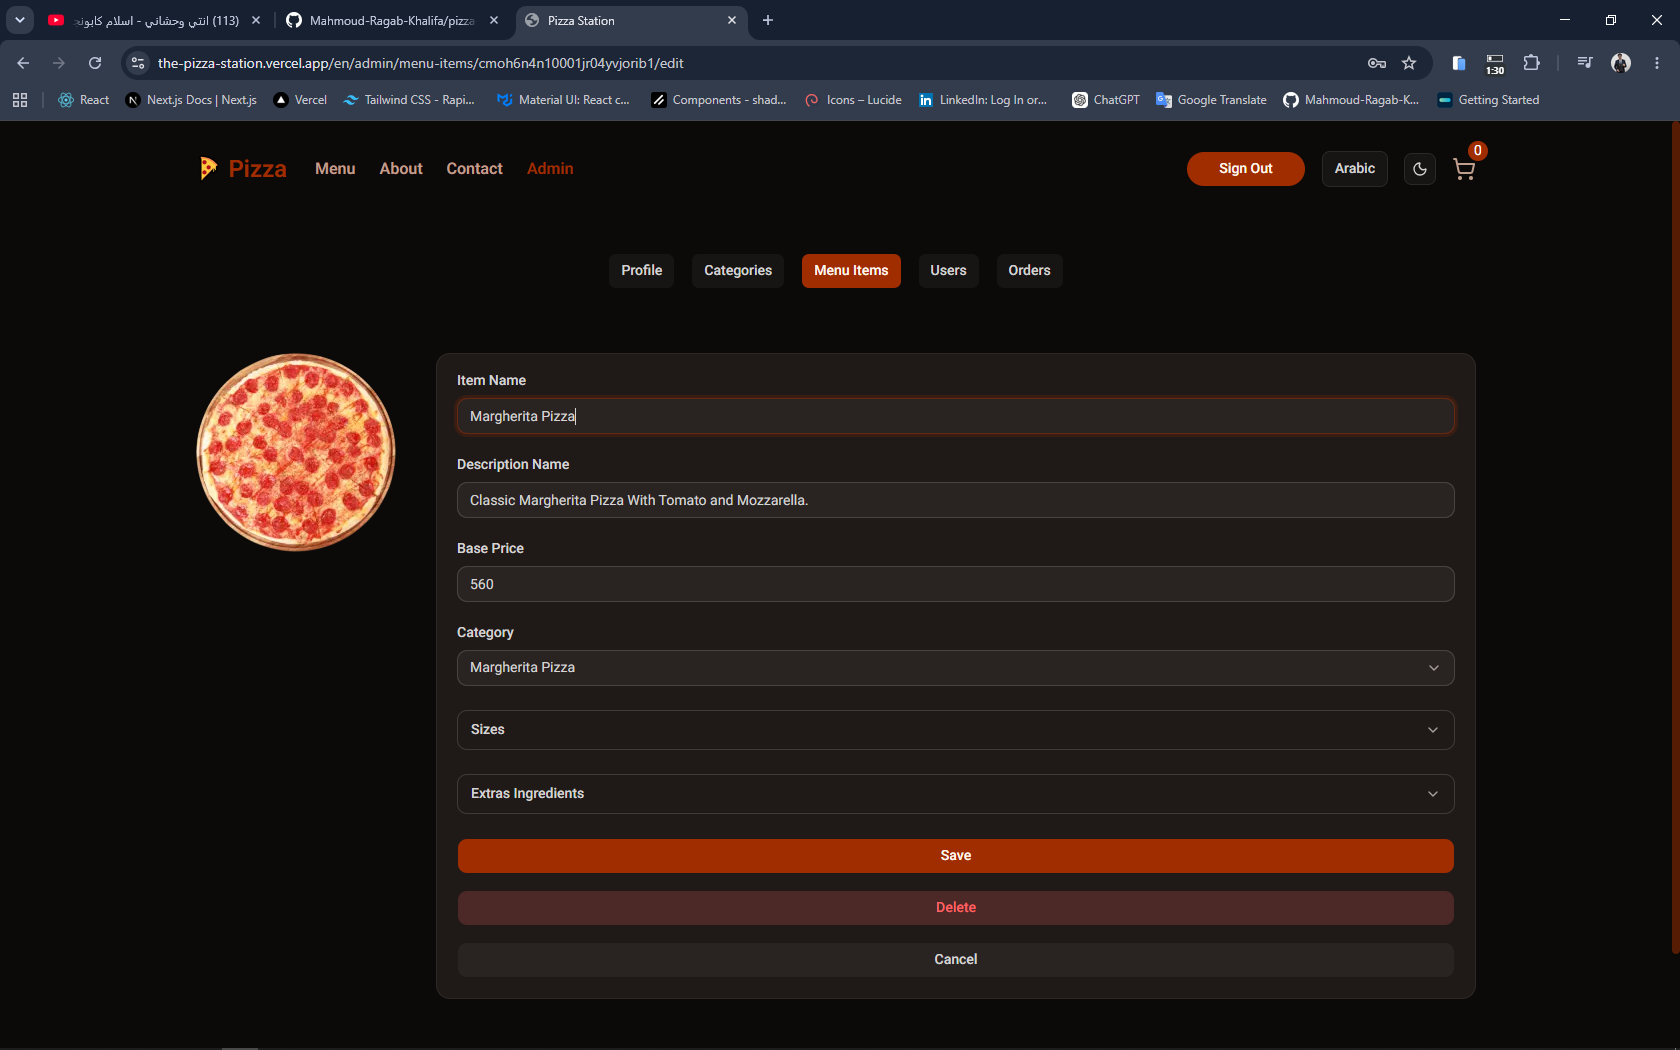
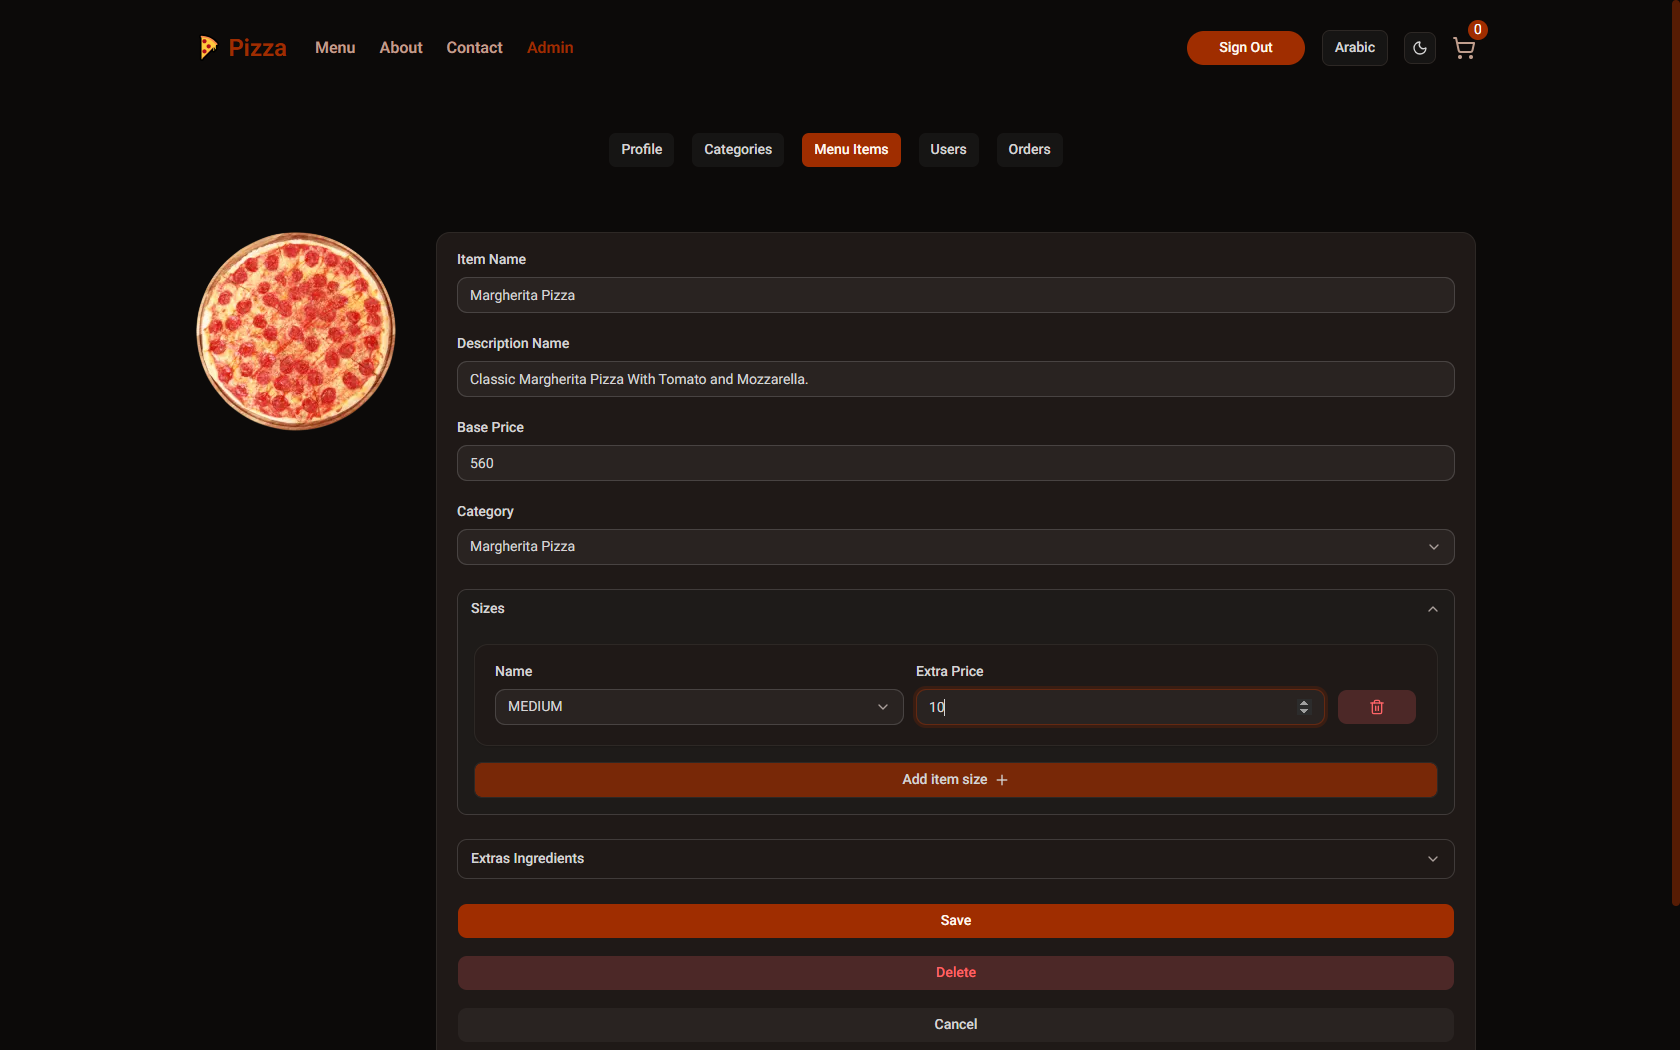
feat: finalize projects section

diff --git a/src/app/_components/Projects.tsx b/src/app/_components/Projects.tsx
@@ -1,0 +1,110 @@
+import { projects } from "@/constants/projects";
+import { ArrowUpRight } from "lucide-react";
+import Image from "next/image";
+import { GitHubIcon } from "../components/SocilaMediaIcons";
+
+const Projects = () => {
+  return (
+    <section className="section-gap relative overflow-hidden" id="projects">
+      {/* Bg glows */}
+      <div className="absolute top-1/4 right-0 size-96 bg-primary/5 rounded-full blur-3xl" />
+      <div className="absolute bottom-1/4 left-0 size-64 bg-primary/5 rounded-full blur-3xl" />
+
+      <div className="container">
+        {/* Section Header */}
+        <div className="text-center mx-auto max-w-3xl mb-16">
+          <span className="text-secondary-foreground text-sm font-medium tracking-wider uppercase animate-fade-in">
+            Featured Work
+          </span>
+          <h2 className="text-4xl md:text-5xl font-bold mt-4 mb-6 animate-fade-in animation-delay-100 text-secondary-foreground">
+            Projects that
+            <span className="font-serif italic font-normal text-white">
+              {" "}
+              make an impact.
+            </span>
+          </h2>
+          <p className="text-muted-foreground animate-fade-in animation-delay-200">
+            A selection of my recent work, from complex web applications to
+            innovative tools that solve real-world problems.
+          </p>
+        </div>
+
+        {/* Projects Grid */}
+        <div className="grid grid-cols-1 md:grid-cols-2 xl:grid-cols-3 gap-8">
+          {projects.map((project, idx) => (
+            <div
+              key={idx}
+              className="group glass rounded-2xl overflow-hidden animate-fade-in md:row-span-1"
+              style={{ animationDelay: `${(idx + 1) * 100}ms` }}
+            >
+              {/* Image */}
+              <div className="relative overflow-hidden aspect-video">
+                <Image
+                  src={project.image}
+                  alt={project.title}
+                  width={1680}
+                  height={1050}
+                  className="object-cover object-center transition-transform duration-700 md:group-hover:scale-110"
+                />
+                <div
+                  className="absolute inset-0 
+                bg-linear-to-t from-card via-card/50
+                 to-transparent opacity-60"
+                />
+                {/* Overlay Links */}
+                <div className="absolute flex items-center gap-4 md:opacity-0 group-hover:opacity-100 transition-all md:-bottom-full left-1/2 top-1/2 md:top-auto -translate-x-1/2 group-hover:top-1/2 -translate-y-1/2 md:translate-y-0 md:group-hover:-translate-y-1/2 duration-500">
+                  <a
+                    href={project.link}
+                    className="p-3 rounded-full glass hover:bg-primary hover:text-primary-foreground transition-all"
+                    target="_blank"
+                    rel="noopener noreferrer"
+                  >
+                    <ArrowUpRight className="w-5 h-5" />
+                  </a>
+                  <a
+                    href={project.github}
+                    className="p-3 rounded-full glass hover:bg-primary hover:text-primary-foreground transition-all"
+                    target="_blank"
+                    rel="noopener noreferrer"
+                  >
+                    <GitHubIcon />
+                  </a>
+                </div>
+              </div>
+
+              {/* Content */}
+              <div className="p-6 space-y-4">
+                <div className="flex items-start justify-between">
+                  <h3 className="text-xl font-semibold group-hover:text-primary transition-colors">
+                    {project.title}
+                  </h3>
+                  <ArrowUpRight
+                    className="w-5 h-5 
+                  text-muted-foreground group-hover:text-primary
+                   group-hover:translate-x-1 
+                   group-hover:-translate-y-1 transition-all duration-300"
+                  />
+                </div>
+                <p className="text-muted-foreground text-sm">
+                  {project.description}
+                </p>
+                <div className="flex flex-wrap gap-2">
+                  {project.tags.map((tag, tagIdx) => (
+                    <span
+                      key={tagIdx}
+                      className="px-4 py-1.5 rounded-full bg-surface text-xs font-medium border border-border/50 text-muted-foreground hover:border-primary/50 hover:text-primary transition-all duration-300 cursor-pointer"
+                    >
+                      {tag}
+                    </span>
+                  ))}
+                </div>
+              </div>
+            </div>
+          ))}
+        </div>
+      </div>
+    </section>
+  );
+};
+
+export default Projects;

diff --git a/src/constants/navLinks.ts b/src/constants/navLinks.ts
@@ -1,6 +1,6 @@
 export const navLinks = [
   { href: "#about", label: "About" },
   { href: "#projects", label: "Projects" },
-  { href: "#experience", label: "Experience" },
-  { href: "#testimonials", label: "Testimonials" },
+  { href: "#skills", label: "Skills" },
+  { href: "#contsct", label: "Contact" },
 ];

diff --git a/src/app/page.tsx b/src/app/page.tsx
@@ -1,11 +1,13 @@
 import About from "./_components/About";
 import Hero from "./_components/Hero";
+import Projects from "./_components/Projects";
 
 const HomePage = () => {
   return (
     <main className="min-h-dvh overflow-x-hidden">
       <Hero />
       <About />
+      <Projects />
     </main>
   );
 };